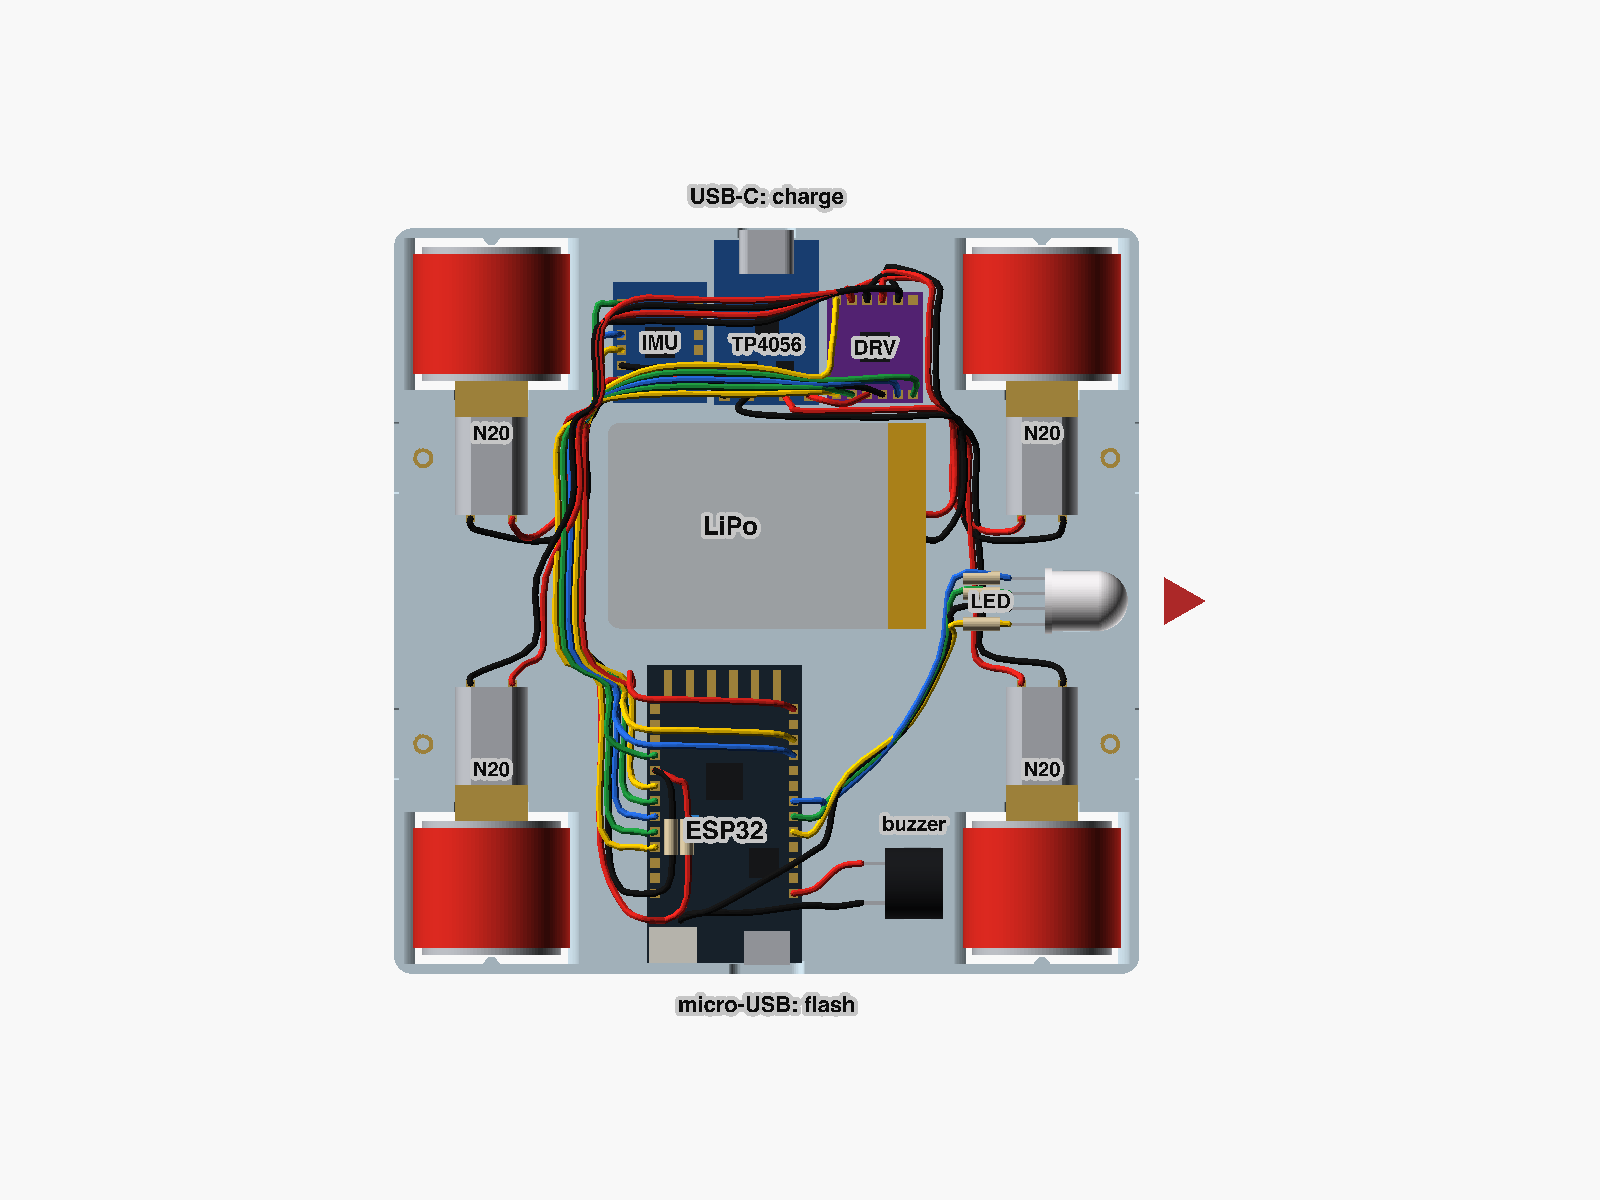
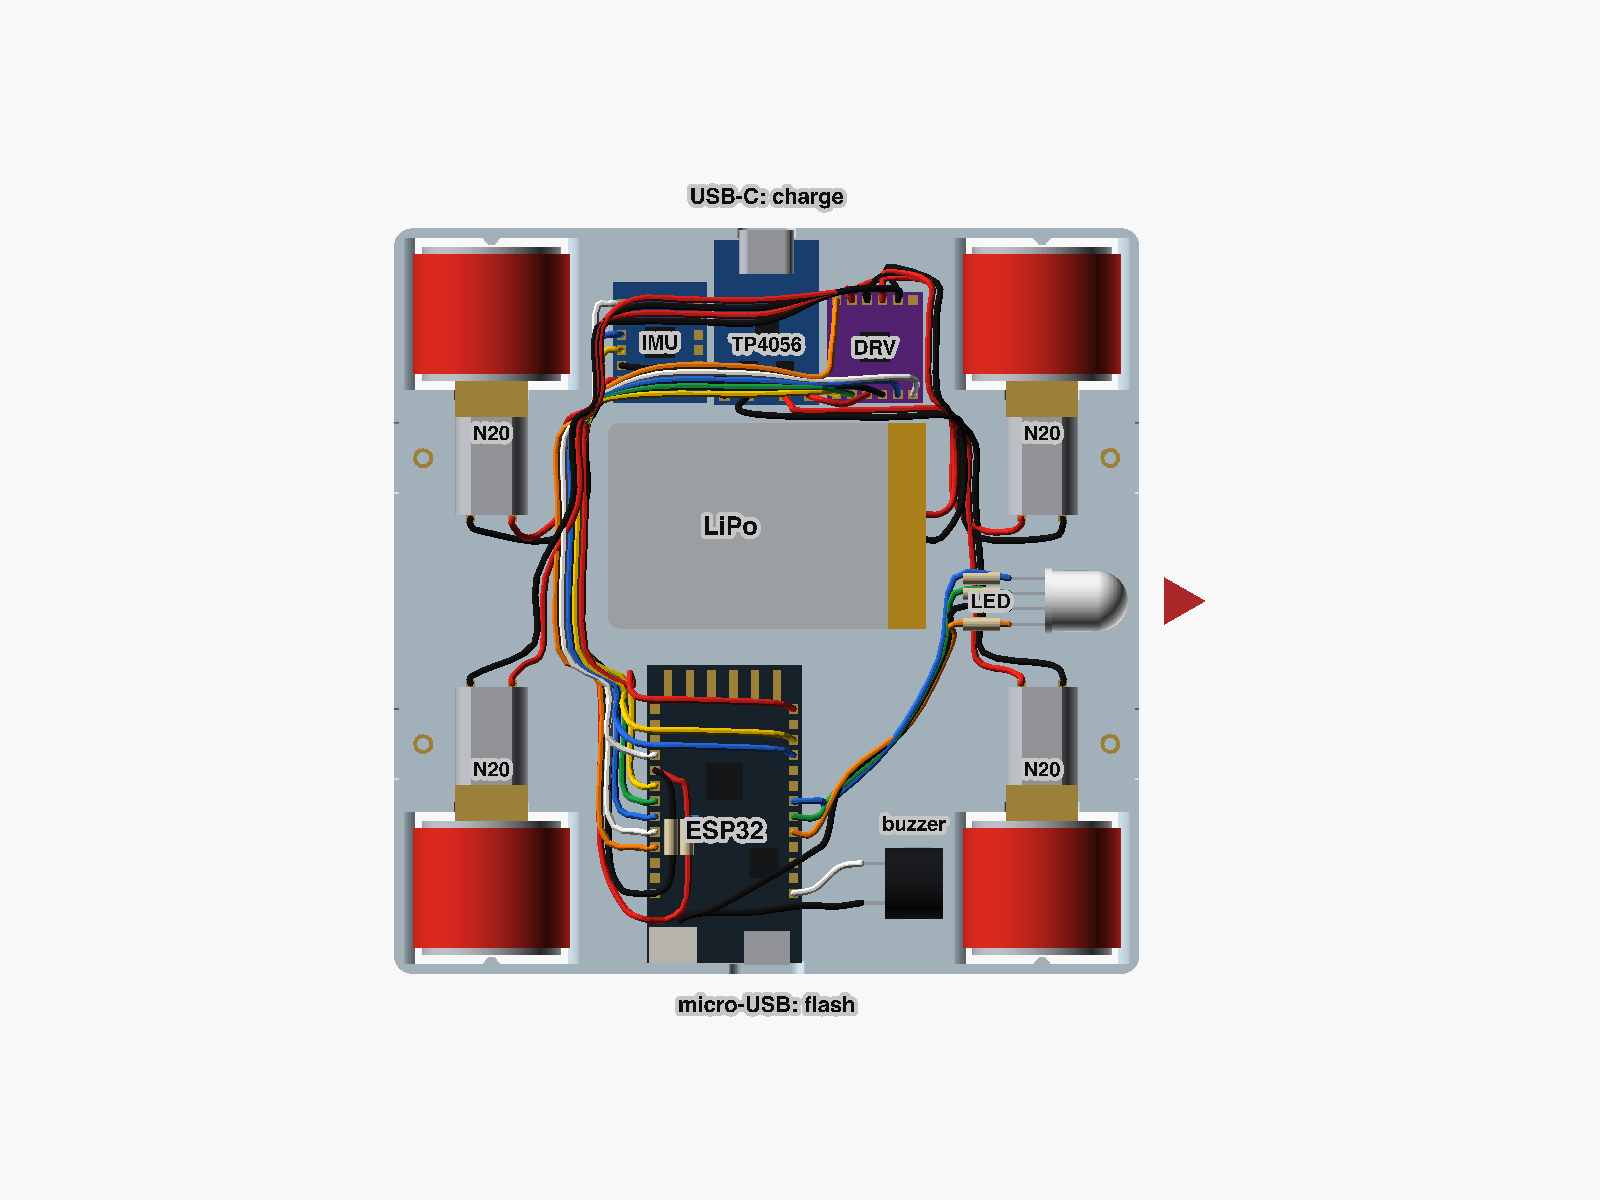
feat(cad): spread the signal wires over seven colours, with white and orange

diff --git a/src/render/product.py b/src/render/product.py
@@ -170,6 +170,8 @@ WIRES = {
     "yellow": (0.80, 0.52, 0.01),
     "green": (0.02, 0.30, 0.06),
     "blue": (0.02, 0.13, 0.62),
+    "white": (0.82, 0.82, 0.78),
+    "orange": (0.80, 0.17, 0.01),
 }
 CONTENTS = ["tyres", "steel", "brass", "pcb_dark", "pcb_blue", "pcb_purple", "chips", "white", "battery", "tape", "foam", "led"]
 CONTENTS += ["wire_" + name for name in WIRES]
